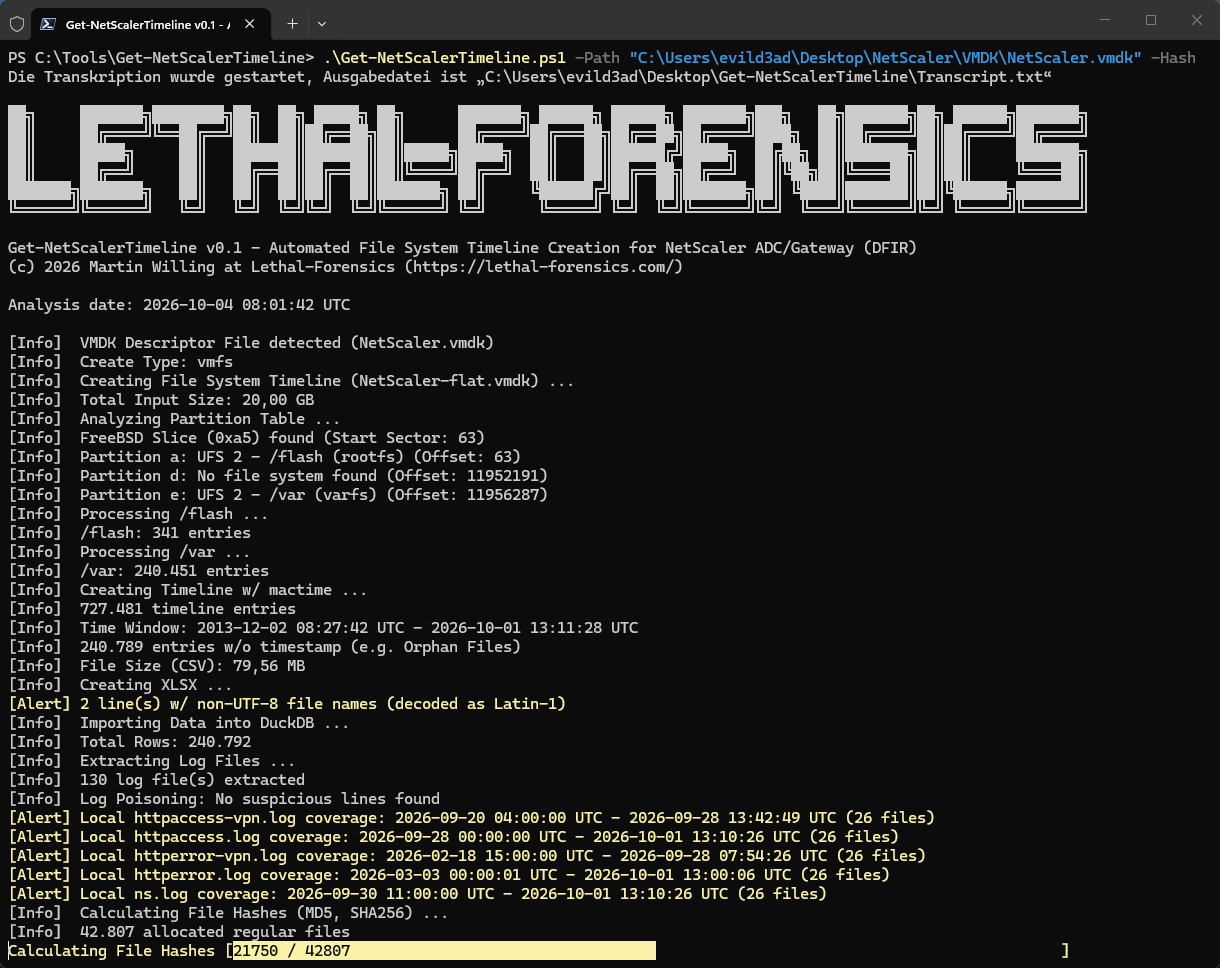
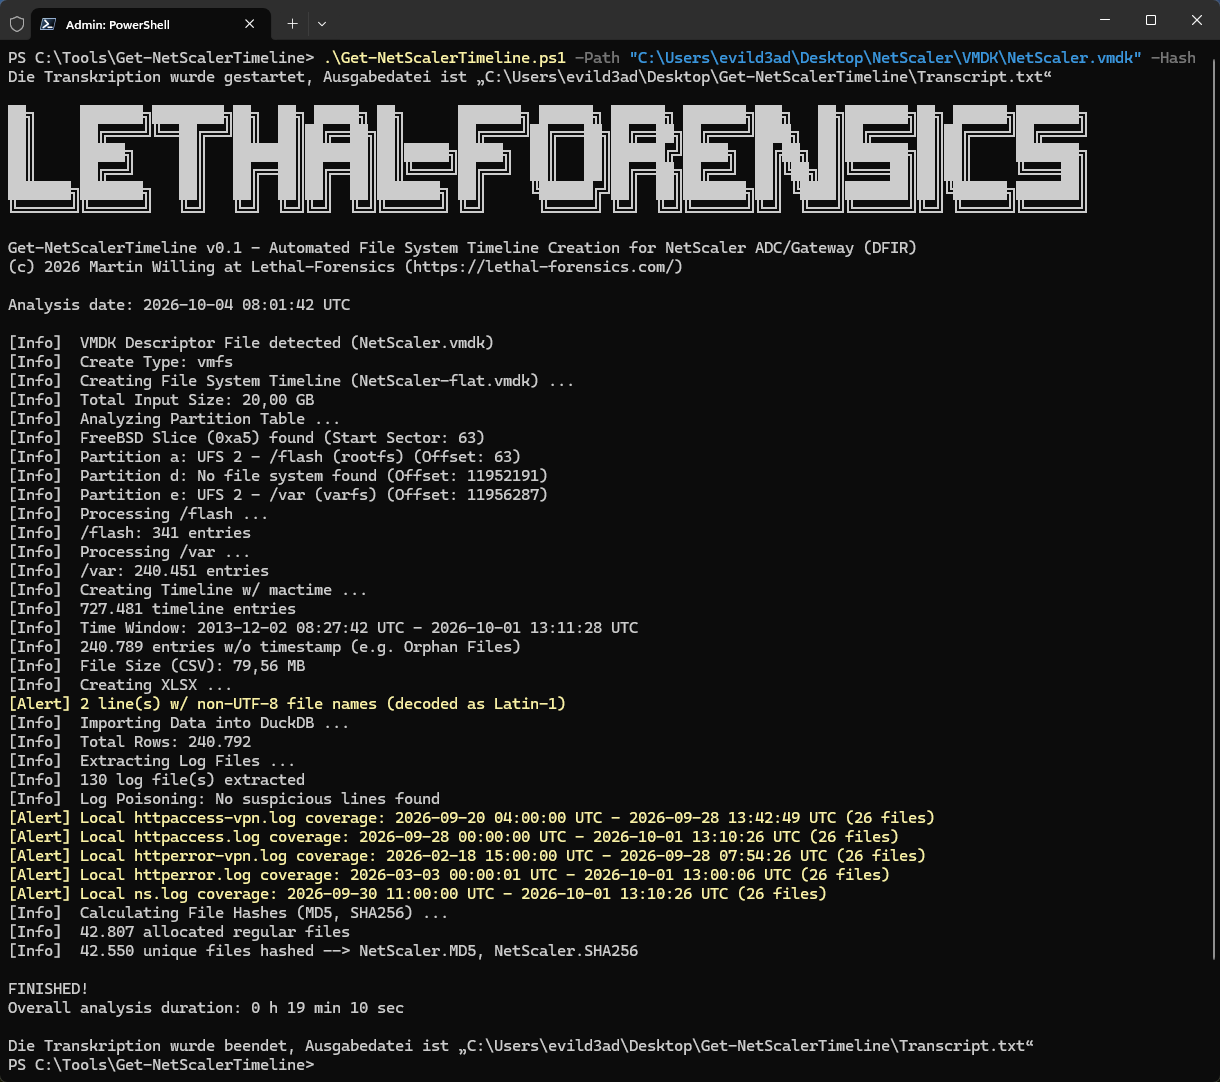
2026-10-04

Changed region(s): [[0.0, 0.0, 1.0, 0.9917]]

diff --git a/README.md b/README.md
@@ -77,6 +77,15 @@ Get-NetScalerTimeline\
         └── duckdb.exe
 ```
 
+![Get-NetScalerTimeline](Screenshots/02.png)
+**Fig 1:** MD5 and SHA256 File Hashing of all allocated regular files
+
+![DuckDB-UI](Screenshots/03.png)
+**Fig 2:** DuckDB UI is launched at the end of the analysis
+
+![Message-Box](Screenshots/03.png)
+**Fig 3:** Message Box
+
 ## Usage
 
 Run the script in an elevated PowerShell session.
